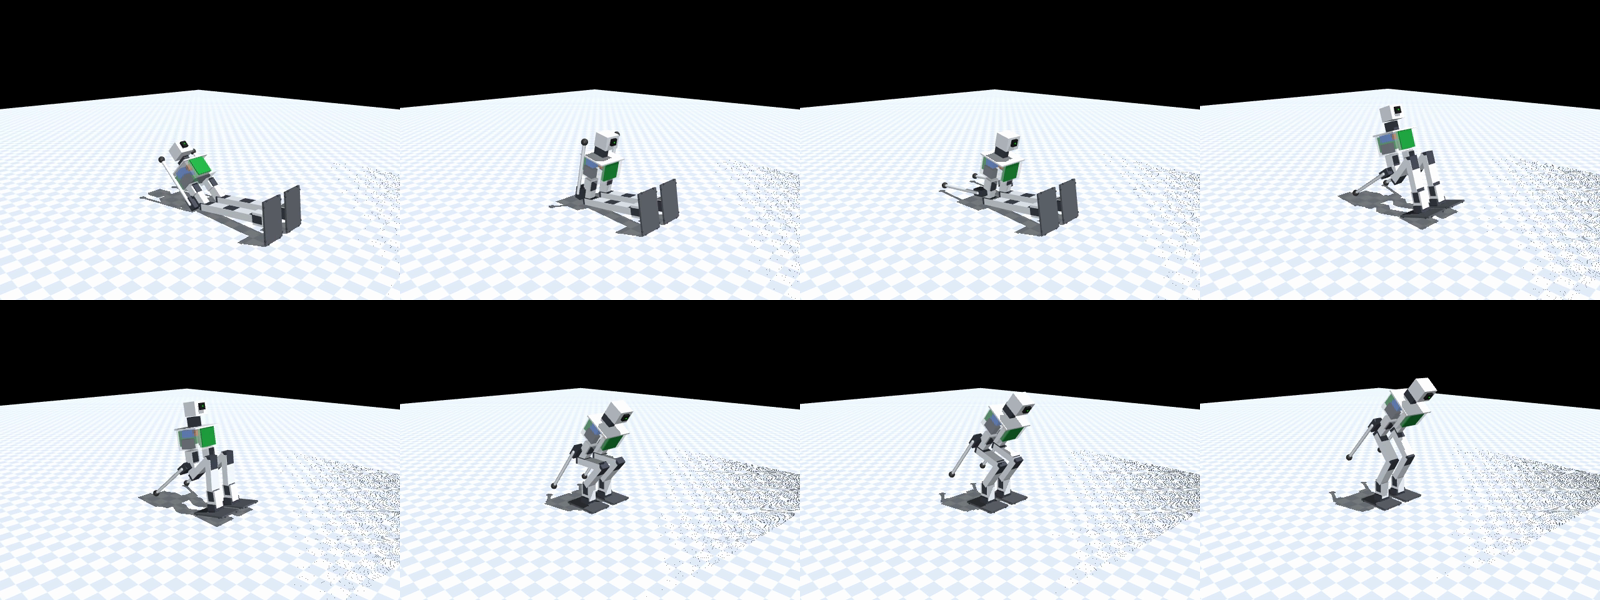
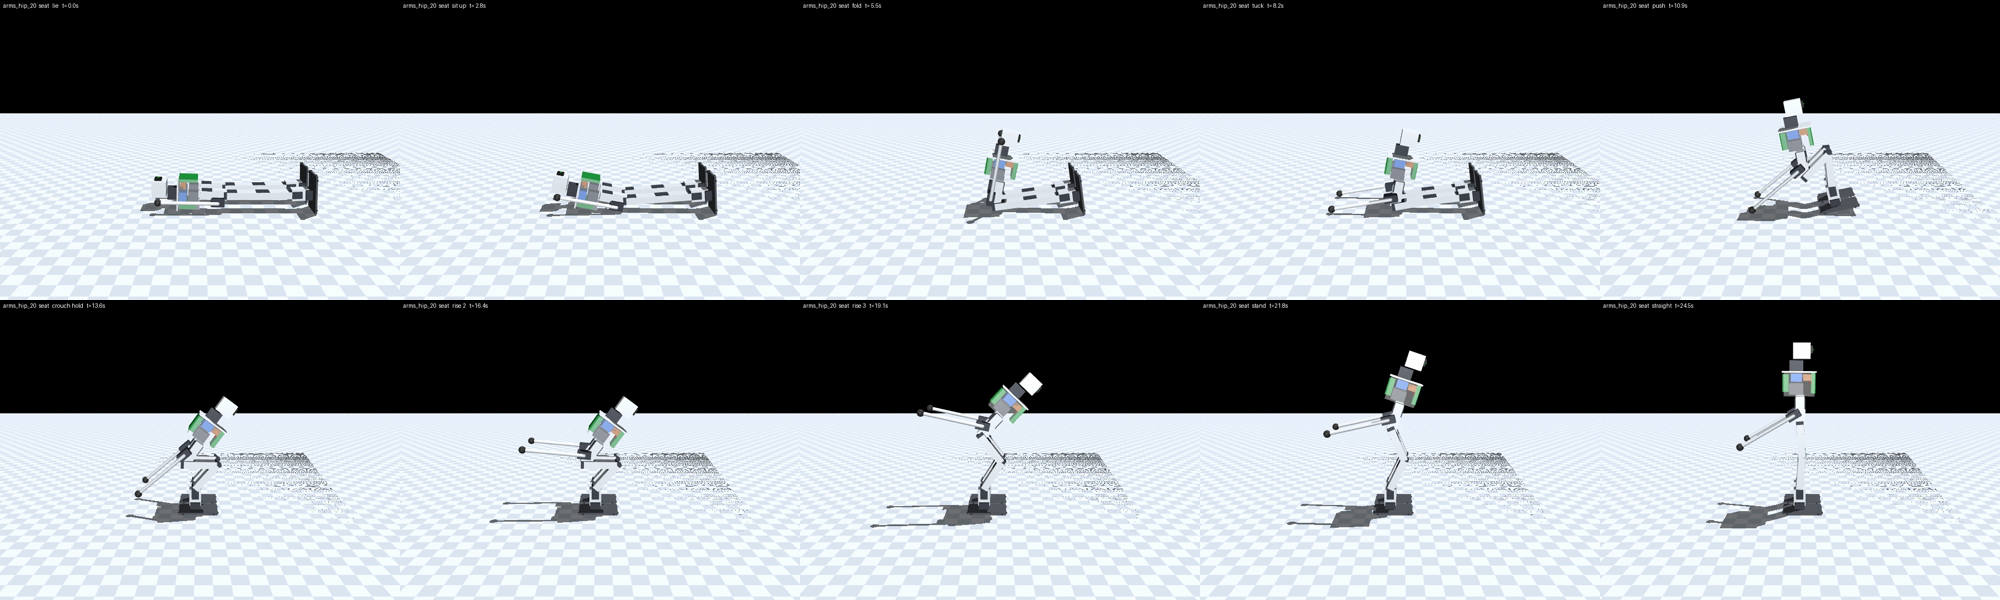
get-up videos regenerated with the flat start + crouch hold; full-chain contact sheet
Claude-Session: https://claude.ai/code/session_01BVRFSESEEAZhBAm1nTmqJ6

diff --git a/sim/getup_v6_appendage.py b/sim/getup_v6_appendage.py
@@ -240,11 +240,13 @@ def main():
                 print(f"{name:12s} abd {abd:.0f}  play {c['play_deg']:.0f} mu {c['mu']:.1f} servo {c['servo_scale']:.1f}  {'STANDING' if r['ok'] else 'no      '} up {r['up']:+.2f} z {r['pelvis_z']:.3f} |tau|max {worst[4]:.2f} ({worst[5]})  [{fr}]", flush=True)
                 if r["ok"]: hits.append(f"{name} abd {abd:.0f} {c}")
     elif mode == "render_chain":
-        out = sys.argv[2]; abd = 55.0
+        out = sys.argv[2]; abd = 45.0
+        view = sys.argv[3] if len(sys.argv) > 3 else "rear"
+        cam = {"rear": (1.5, -18, 150), "side": (1.4, -12, 90), "front": (1.5, -18, 30)}[view]
         p = dataclasses.replace(BASE, hip_roll_abd=abd, hip_roll_add=45.0, **CONFIGS["tail_hip_20"])
         xml = os.path.join(SP, f"gu_chain_render_{os.getpid()}.xml"); open(xml, "w").write(build_xml(p))
-        r = G.run_sequence(p, xml, full_chain("tail", abd), start="prone", per_joint=G.PJ_DEFAULT, verbose=True, render=out,
-                           cam=(1.5, -18, 150), size=(540, 720), label_fn=lambda lab, t: f"tail_hip_20  prone -> standing   {lab}   t={t:4.1f}s")
+        r = G.run_sequence(p, xml, full_chain("tail", abd), start="prone", per_joint=G.PJ_DEFAULT, verbose=False, render=out,
+                           cam=cam, size=(540, 720), label_fn=lambda lab, t: f"tail_hip_20  prone -> standing   {lab}   t={t:4.1f}s")
         print("STANDING" if r["ok"] else "not standing", out)
         return
     elif mode == "render":

diff --git a/docs/design-v6-ankle-roll.md b/docs/design-v6-ankle-roll.md
@@ -367,7 +367,7 @@ Three objections to the first cut, all valid, all fixed:
 
 With the two hip **arms** the same roll fails: folded up along the torso they lie on the floor beside the head and the body cannot roll over them (0/5). A different arm stow would probably fix it, but it is one more reason to prefer the tail.
 
-**Videos** (local only, `sim/renders/getup_v6/`, gitignored, regenerate with `sim/getup_v6_appendage.py render`): `getup_tail_hip20_side.mp4`, `getup_tail_hip20_rear.mp4`, `getup_arms_hip20_side.mp4`, `getup_arms_elbow_side.mp4`, `getup_tail_vs_arms_side.mp4` (side by side), the two prone failures `getup_prone_pike_arms_hip20.mp4`, `getup_prone_roll_arms_hip20.mp4`, and the full prone-to-standing chain `getup_full_chain_tail_hip20.mp4`.
+**Videos** (local only, `sim/renders/getup_v6/`, gitignored, regenerate with `sim/getup_v6_appendage.py render …` / `render_chain`; all with the flat start and the crouch hold): `getup_full_chain_tail_hip20_side.mp4` and `getup_full_chain_tail_hip20.mp4` (rear) — prone → standing with the tail, 38 s; `getup_tail_hip20_side.mp4`, `getup_tail_hip20_rear.mp4` — supine → standing with the tail; `getup_arms_hip20_side.mp4`, `getup_arms_elbow_side.mp4` — the arm variants; `getup_tail_vs_arms_side.mp4` — tail and arms side by side. Contact sheets committed: `getup_full_chain_tail_strip.png`, `getup_tail_hip20_strip.png`, `getup_arms_hip20_strip.png`.
 
 ## Files
 
